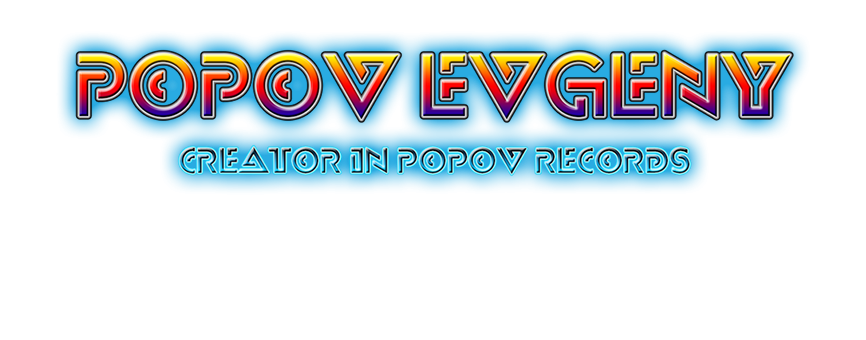
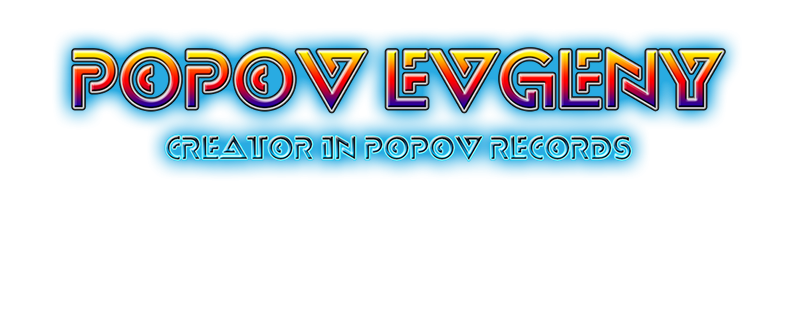
Add files via upload

Changed region(s): [[0.0605, 0.1433, 0.937, 0.3726], [0.1814, 0.4299, 0.8161, 0.5159]]

diff --git a/assets/index.html b/assets/index.html
@@ -8,7 +8,7 @@
   <title>POPOV RECORDS</title>
   <!-- CSS -->
   <link rel="stylesheet" type="text/css" href="css/site_global.css?4023935739"/>
-  <link rel="stylesheet" type="text/css" href="css/index.css?4007450545" id="pagesheet"/>
+  <link rel="stylesheet" type="text/css" href="css/index.css?3788008741" id="pagesheet"/>
   <!-- Other scripts -->
   <script type="text/javascript">
    document.documentElement.className += ' js';
@@ -145,7 +145,7 @@ body,img{
 </div>
       <div class="colelem" id="u5637"><!-- custom html -->
        
-<iframe class="actAsDiv" width="946" height="220" frameborder="0" scrolling="no" marginheight="0" marginwidth="0" src="https://maps.google.com/maps?f=q&amp;source=s_q&amp;hl=ru&amp;q=Russia%2C%20Mordovia%2C%20Ruzaevka%2C%20Uhtomskovo%2030&amp;aq=0&amp;ie=UTF8&amp;t=m&amp;z=12&amp;iwloc=A&amp;output=embed"></iframe>
+<iframe class="actAsDiv" width="946" height="209" frameborder="0" scrolling="no" marginheight="0" marginwidth="0" src="https://maps.google.com/maps?f=q&amp;source=s_q&amp;hl=ru&amp;q=Russia%2C%20Mordovia%2C%20Ruzaevka%2C%20Uhtomskovo%2030&amp;aq=0&amp;ie=UTF8&amp;t=m&amp;z=12&amp;iwloc=A&amp;output=embed"></iframe>
 
 </div>
      </div>
@@ -162,9 +162,9 @@ body,img{
    <img class="preload" src="images/u4688-r.png" alt=""/>
    <img class="preload" src="images/u4688-a.png" alt=""/>
    <!--[if lt IE 9]>
-   <img class="preload" src="images/u5127-grad.png" alt=""/>
-   <img class="preload" src="images/u5127-r-grad.png" alt=""/>
-   <img class="preload" src="images/u5127-m-grad.png" alt=""/>
+   <img class="preload" src="images/u4674-grad.png" alt=""/>
+   <img class="preload" src="images/u4679-r-grad.png" alt=""/>
+   <img class="preload" src="images/u4679-m-grad.png" alt=""/>
    <![endif]-->
   </div>
   <!-- JS includes -->

diff --git a/albums.html b/albums.html
@@ -7,7 +7,7 @@
   <title>ALBUMS</title>
   <!-- CSS -->
   <link rel="stylesheet" type="text/css" href="css/site_global.css?4023935739"/>
-  <link rel="stylesheet" type="text/css" href="css/albums.css?336222078" id="pagesheet"/>
+  <link rel="stylesheet" type="text/css" href="css/albums.css?3803074798" id="pagesheet"/>
   <!-- Other scripts -->
   <script type="text/javascript">
    document.documentElement.className += ' js';
@@ -155,7 +155,7 @@ body,img{
 </div>
      </div>
     </div>
-    <img class="colelem" id="u5312" src="images/88-u5312.png" alt="" width="866" height="340"/><!-- rasterized frame -->
+    <img class="colelem" id="u5312" src="images/88-u5312.png" alt="" width="794" height="314"/><!-- rasterized frame -->
     <div class="verticalspacer"></div>
    </div>
   </div>

diff --git a/css/albums.css b/css/albums.css
@@ -7,10 +7,9 @@
 {
 	z-index: 1;
 	width: 1200px;
-	min-height: 7845.785714285717px;
+	min-height: 7846px;
 	border-style: none;
 	border-color: #000000;
-	padding-bottom: 0px;
 	margin-left: auto;
 	margin-right: auto;
 	background: #323232 url("../images/presence-page-fr.png") repeat center center;
@@ -19,7 +18,7 @@
 
 #page_position_content
 {
-	margin-bottom: 3px;
+	margin-bottom: -24px;
 }
 
 #u4888
@@ -850,8 +849,8 @@
 	z-index: 293;
 	display: block;
 	vertical-align: top;
-	margin-left: 177px;
-	margin-top: 41px;
+	margin-left: 213px;
+	margin-top: 95px;
 	position: relative;
 }
 
